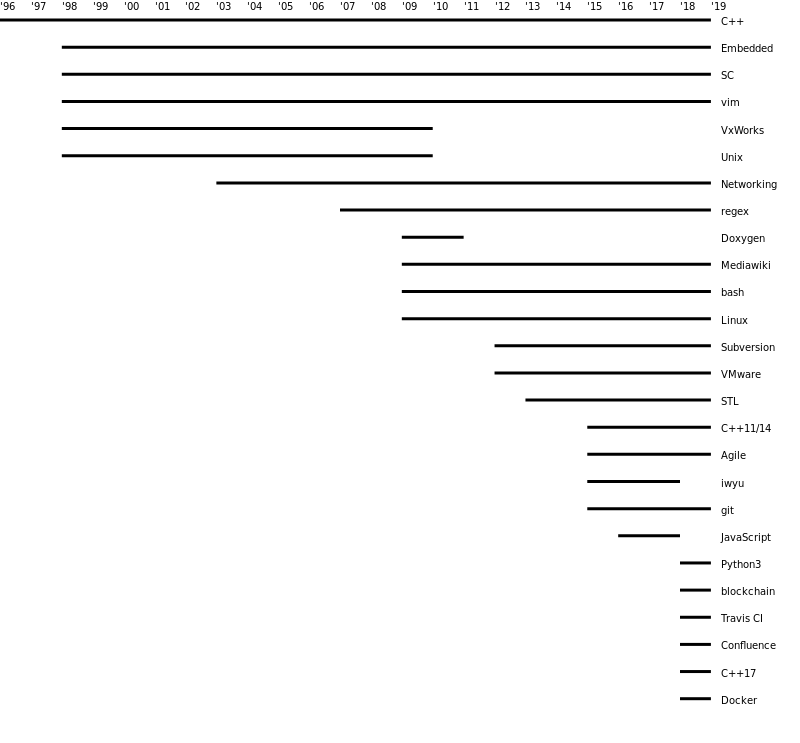
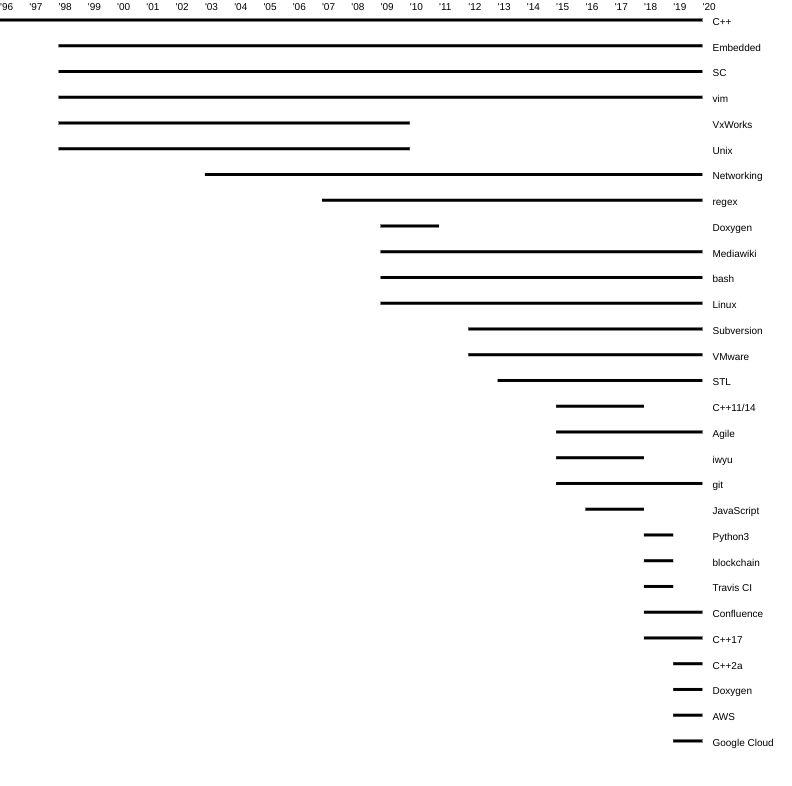
Add cloud stuff

Changed region(s): [[0.0, 0.0, 0.9697, 0.6501], [0.7273, 0.6501, 0.9697, 0.9596]]

diff --git a/skills.html b/skills.html
@@ -8,7 +8,7 @@
 	"use strict"
 
 	// Current year
-	const now = 2018;
+	const now = 2019;
 
 	// Skills and date range
 	const skills = [
@@ -28,17 +28,20 @@
 		["Subversion",  	2012, now],
 		["VMware",		2012, now],
 		["STL",			2013, now],
-		["C++11/14",    	2015, now],
+		["C++11/14",    	2015, 2017],
 		["Agile",		2015, now],
 		["iwyu",		2015, 2017],
 		["git",			2015, now],
 		["JavaScript",  	2016, 2017],
-		["Python3",		2018, now],
-		["blockchain",		2018, now],
-		["Travis CI",		2018, now],
+		["Python3",		2018, 2018],
+		["blockchain",		2018, 2018],
+		["Travis CI",		2018, 2018],
 		["Confluence",		2018, now],
 		["C++17",		2018, now],
-		["Docker",		2018, now],
+		["C++2a",		2019, now],
+		["Doxygen",		2019, now],
+		["AWS",		        2019, now],
+		["Google Cloud",	2019, now],
 	];
 </script>
 
